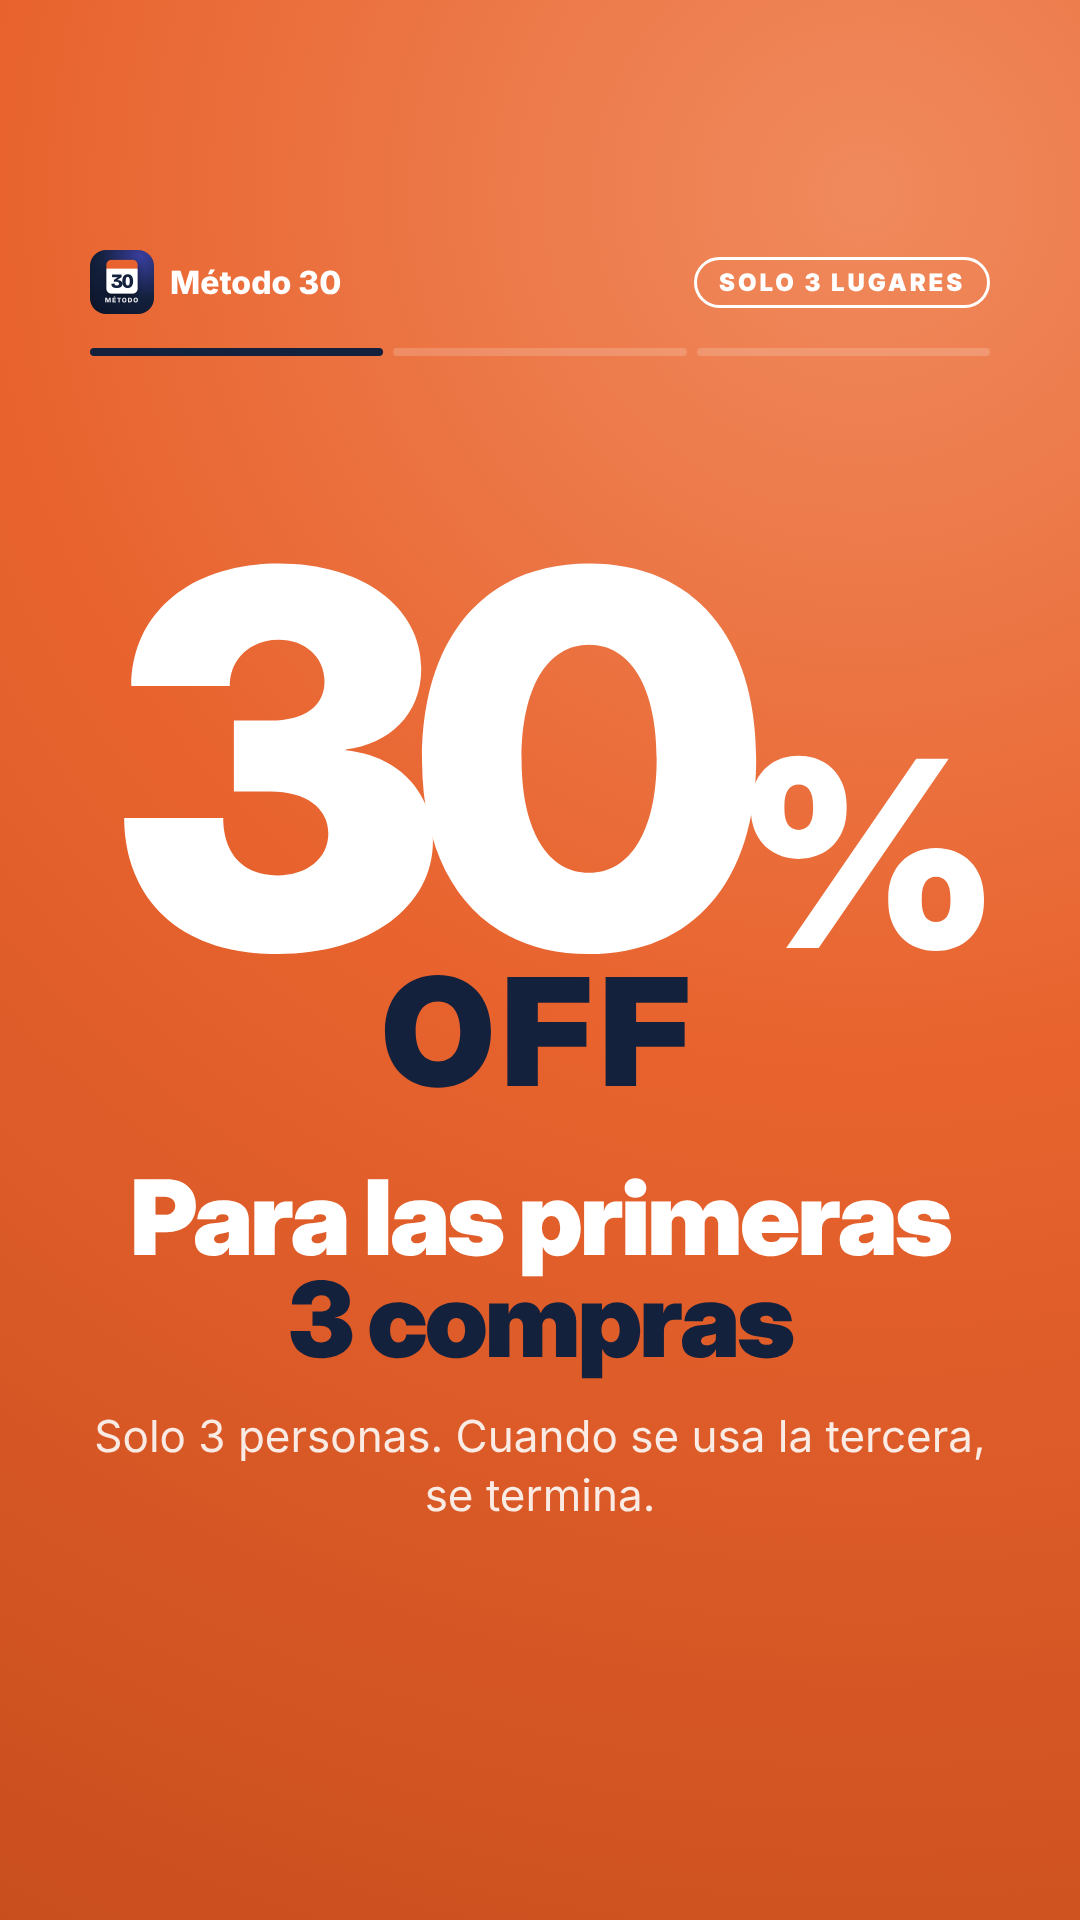
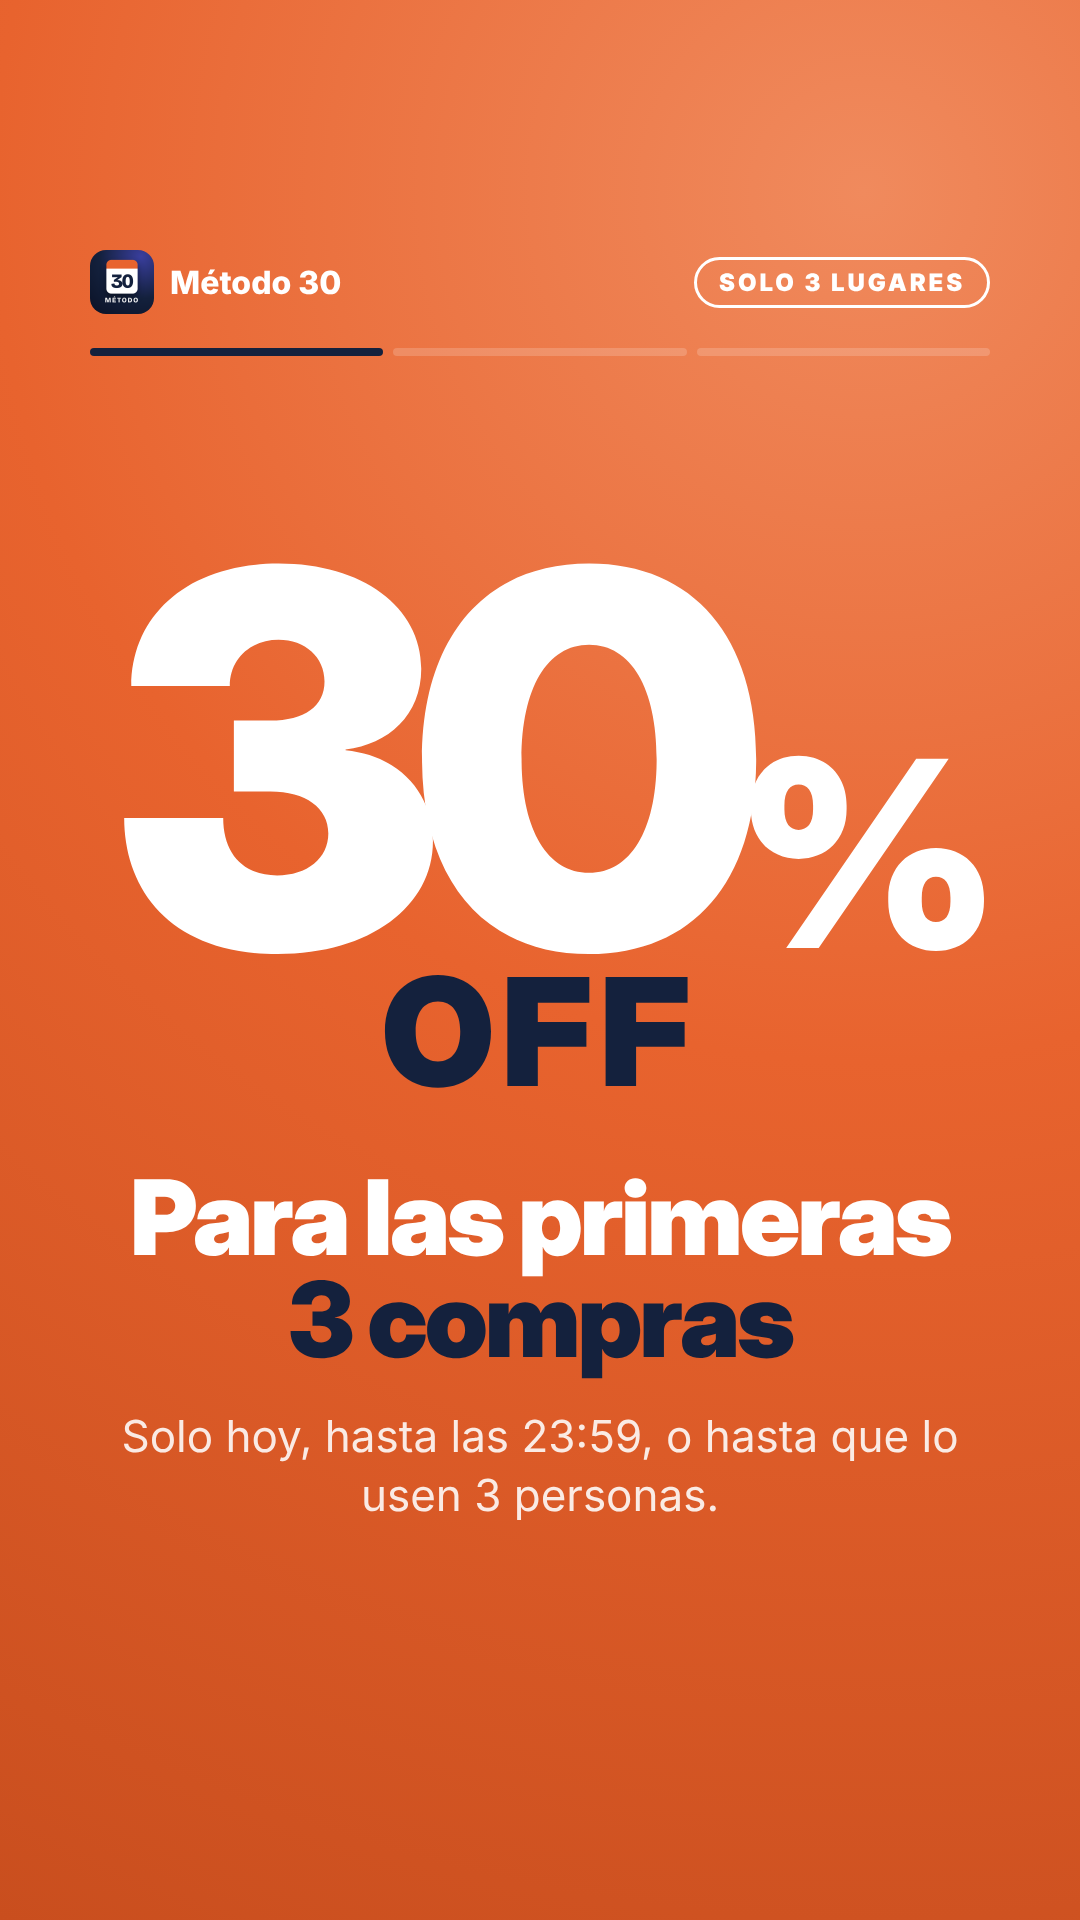
Instagram week: discount code only on Monday (ends Tuesday 00:00); other days close without it
Claude-Session: https://claude.ai/code/session_01DqVqUeAmWCQGLWKBngAQ89

Changed region(s): [[0.0917, 0.7188, 0.8556, 0.8125]]

diff --git a/instagram/build_semana.py b/instagram/build_semana.py
@@ -1,4 +1,4 @@
-"""Historias de venta para una semana (1080x1920), con el código de descuento para las primeras 3 compras.
+"""Historias de venta para una semana (1080x1920). El código de descuento va solo el lunes (vence el martes a las 00:00).
 
 Uso: python3 instagram/build_semana.py && node instagram/render_historias.js semana
 Escribe instagram/semana/<día>/<n>.png
@@ -48,7 +48,7 @@ add(F, "2", "list", tag="Método 30", title="En 30 días<br>dejás de buscar<br>
     items=["Un CV que pasa los filtros automáticos", "Un LinkedIn que hace que te encuentren",
            "Mensajes para llegar a quien decide", "Respuestas para cada entrevista"],
     foot="Un plan día por día, desde el celular.")
-add(F, "3", **CTA_CODIGO, tag="30% OFF")
+add(F, "3", **CTA_SIN, tag="Método 30")
 
 # ---------- Miércoles · reseñas reales ----------
 F = "3-miercoles"
@@ -58,7 +58,7 @@ add(F, "1", "review", tag="Reseñas", stars=5, titulo="Revelador para pasar los 
 add(F, "2", "review", tag="Reseñas", stars=5, titulo="Práctico, directo y sin relleno",
     texto="Lo que más me gustó es que no es teoría vacía; son checklists, plantillas de mensajes para copiar y un tracker diario.",
     nombre="Sofía L.")
-add(F, "3", **CTA_CODIGO, tag="30% OFF")
+add(F, "3", **CTA_SIN, tag="Método 30")
 
 # ---------- Jueves · qué incluye ----------
 F = "4-jueves"
@@ -69,7 +69,7 @@ add(F, "2", "list", tag="Qué incluye", title="Adentro<br>vas a encontrar",
     items=["Plan de 30 días con tareas para tildar", "8 plantillas de mensajes listas para copiar",
            "Las 15 preguntas de entrevista resueltas", "Cómo negociar tu sueldo"],
     foot="Te llega al mail apenas pagás.")
-add(F, "3", **CTA_CODIGO, tag="30% OFF")
+add(F, "3", **CTA_SIN, tag="Método 30")
 
 # ---------- Viernes · sin riesgo ----------
 F = "5-viernes"
@@ -77,7 +77,7 @@ add(F, "1", "big", tag="Sin riesgo", big="10", bigsub="días para<br>arrepentirt
     text="Si no es para vos, escribinos dentro de los 10 días y te devolvemos el dinero.")
 add(F, "2", "big", tag="Sin riesgo", big="3", bigsub="cuotas<br>sin interés",
     text="Con todas las tarjetas de crédito, a través de Mercado Pago.")
-add(F, "3", **CTA_CODIGO, tag="30% OFF")
+add(F, "3", **CTA_SIN, tag="Método 30")
 
 # ---------- Sábado · entrevistas ----------
 F = "6-sabado"
@@ -87,17 +87,15 @@ add(F, "1", "review", tag="Reseñas", stars=5, titulo="Dejé de sufrir las entre
 add(F, "2", "qa", tag="Entrevistas", q="«¿Cuál es tu mayor debilidad?»",
     a="Algo real que no sea central para el puesto, y qué estás haciendo para mejorarlo.<br><br>"
       "<span class='no'>Esta y otras 14 preguntas, resueltas en Método 30.</span>")
-add(F, "3", **CTA_CODIGO, tag="30% OFF")
+add(F, "3", **CTA_SIN, tag="Método 30")
 
 # ---------- Domingo · empezá el lunes ----------
 F = "7-domingo"
 add(F, "1", "cover", tag="Mañana es lunes", title="Mañana<br>arrancás<br>el <em>día 1</em>",
     sub="Treinta días con un plan claro: qué hacer cada día para dejar de mandar CVs al vacío.",
     pic=f'<img class="phone" src="{bh.CEL}">')
-add(F, "2", **CTA_CODIGO, tag="Última chance")
+add(F, "2", **CTA_SIN, tag="Método 30")
 
-# ---------- Cierre sin código (usar cuando se agote) ----------
-add("cierre-sin-codigo", "1", **CTA_SIN, tag="Método 30")
 
 
 # ---------- RENDER ----------
@@ -109,7 +107,7 @@ def body(h):
     if k == "offer_big":
         return ('<div class="cover center"><div class="pct">' + str(DESC) + '<span>%</span></div><div class="pctoff">OFF</div>'
                 '<h1 class="oh">Para las primeras<br><em>3 compras</em></h1>'
-                '<p class="sub">Solo 3 personas. Cuando se usa la tercera, se termina.</p></div>')
+                '<p class="sub">Solo hoy, hasta las 23:59, o hasta que lo usen 3 personas.</p></div>')
     if k == "offer_prices":
         e, c = PRECIOS["Ebook"], PRECIOS["Combo"]
         return ('<div class="lst"><h2>Con el código<br>te queda así</h2>'
@@ -117,14 +115,14 @@ def body(h):
                 f'<em>o 3 cuotas de {pesos(off(e) / 3)}</em></div></div>'
                 f'<div class="oprice best"><div class="two"><img src="{bh.TAPA1}"><img src="{bh.TAPA2}"></div><div><small>Combo 2 ebooks</small><s>{pesos(c)}</s><b>{pesos(off(c))}</b>'
                 f'<em>o 3 cuotas de {pesos(off(c) / 3)}</em></div></div>'
-                '<p class="foot">Solo para las primeras 3 compras</p></div>')
+                '<p class="foot">Solo hoy · primeras 3 compras</p></div>')
     if k == "cta_code":
         return ('<div class="cover center"><div class="kick2">' + str(DESC) + '% OFF · primeras 3 compras</div>'
                 '<h1 class="oh">Usá el código</h1>'
                 f'<div class="coupon"><small>Código</small>{CODIGO}</div>'
                 '<ol class="how"><li>Entrá al link de nuestro perfil</li><li>Elegí Ebook o Combo</li>'
                 f'<li>En el pago, escribí <b>{CODIGO}</b></li></ol>'
-                '<p class="sub small">Se termina cuando lo usen 3 personas.</p></div>')
+                '<p class="sub small">Vale hasta hoy a las 23:59 o hasta que lo usen 3 personas.</p></div>')
     if k == "cta_plain":
         return ('<div class="cover center"><img class="tp" src="' + bh.COMBO + '"><h1>Empezá hoy<br>el <em>día 1</em></h1>'
                 '<p class="sub">Ebook $18.000 · Combo $27.000<br>Hasta 3 cuotas sin interés</p>'
